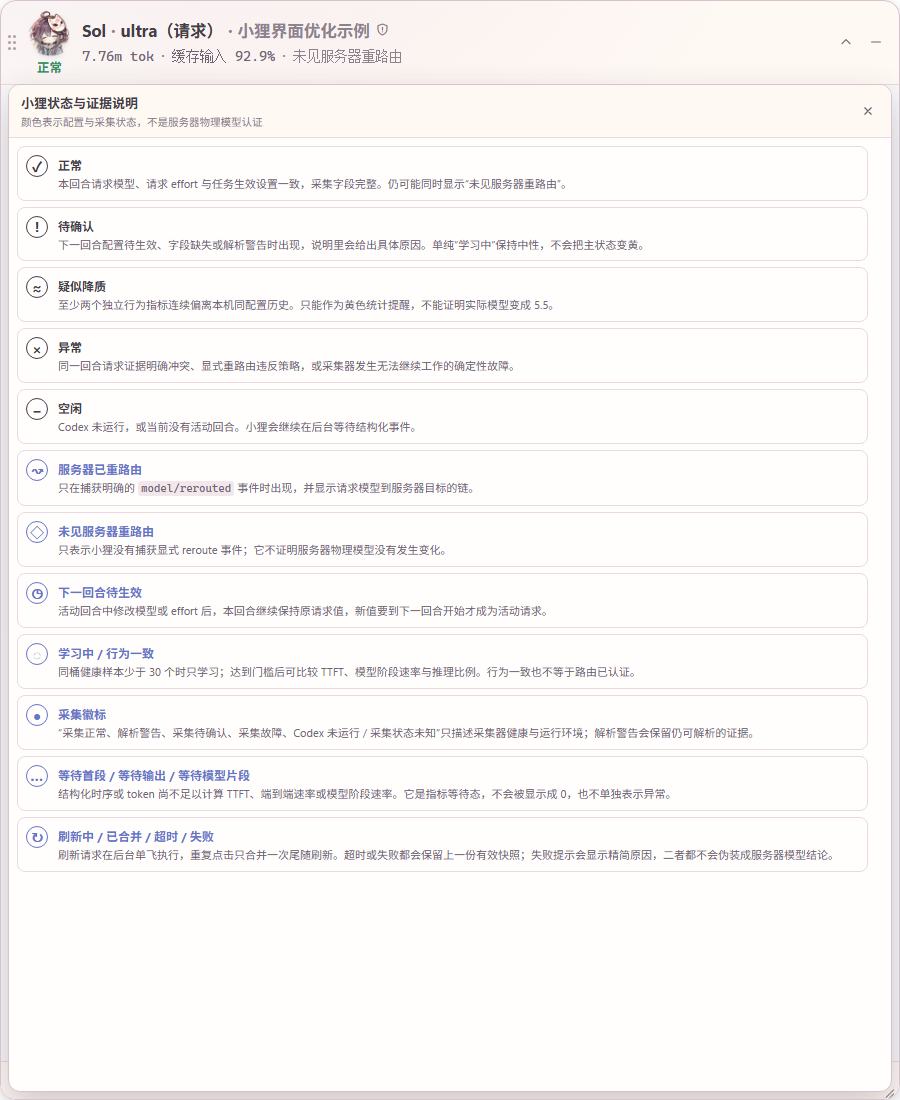
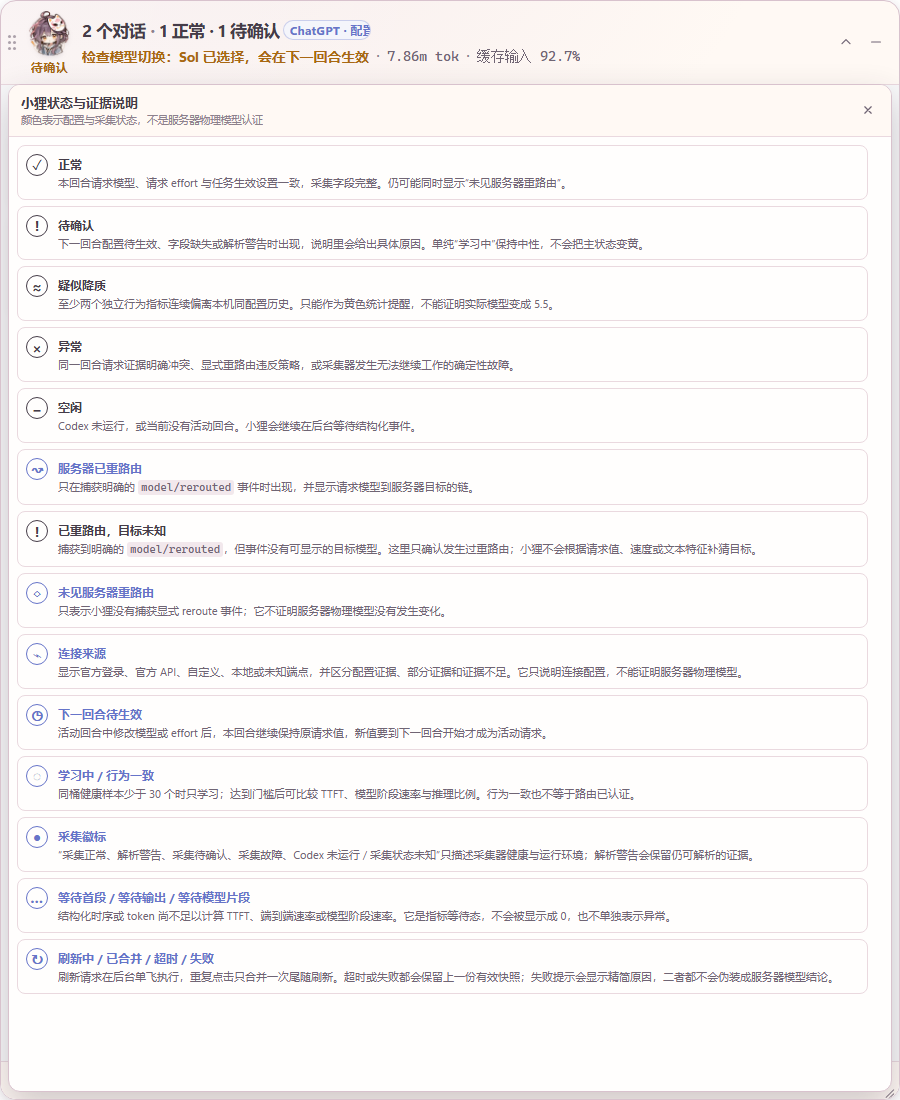
fix: repair portable release and complete status guide (#5)
Repair the macOS and Linux portable release gates, document every monitor and relay-audit state, and preserve strict model evidence boundaries.

diff --git a/src/workbench.ts b/src/workbench.ts
@@ -313,6 +313,20 @@ const BUDGETS: Record<AuditMode, BudgetPreset> = {
     detectors: ["protocol", "usage", "quality", "fingerprint", "mmd", "cacheEvasion", "stability", "paraphraseDrift"],
   },
 };
+const AUDIT_MODE_GUIDANCE: Record<AuditMode, { capability: string; limitation: string }> = {
+  quick: {
+    capability: "连接、协议、usage 算术、基础能力与少量单 token 指纹采样",
+    limitation: "每个质量域样本不足以形成一致或降质裁决；质量轴保持学习中，不运行 MMD 与抗规避统计",
+  },
+  standard: {
+    capability: "完整协议与计量、六个质量域、JSD/MMD 分布比较和两批抗规避检查",
+    limitation: "行为质量与中/高置信 JSD/MMD 比较需要实时官方配对；已验签静态参考只提供低置信 JSD 身份比较；通过仍不能证明物理模型",
+  },
+  deep: {
+    capability: "标准档全部能力，加大指纹与质量样本、稳定性矩阵和语义改写漂移检查",
+    limitation: "中/高置信比较仍需实时官方配对；费用、耗时和被端点识别审计流量的概率最高；仍无法排除选择性诚实",
+  },
+};
 const BUILT_IN_REQUESTS: Record<AuditMode, number> = { quick: 140, standard: 308, deep: 716 };
 const EMPTY_AXIS: AxisFinding = { level: "gray", state: "notRun", summary: "尚未运行主动检测", details: [] };
 
@@ -590,7 +604,9 @@ function relayPage(): string {
               <div class="budget-item"><span>最大请求</span><strong class="budget-requests">150</strong></div>
               <div class="budget-item"><span>输入 token 上限</span><strong class="budget-input">1.2m</strong></div>
               <div class="budget-item"><span>输出 token 上限</span><strong class="budget-output">120k</strong></div>
+              <div class="budget-item"><span>整次超时硬上限</span><strong class="budget-timeout">30 分钟</strong></div>
             </div>
+            <div class="audit-mode-guidance" aria-live="polite"><strong class="audit-mode-capability">快速：连接、协议、usage 算术、基础能力与少量单 token 指纹采样</strong><span class="audit-mode-limitation">局限：每个质量域样本不足以形成一致或降质裁决；质量轴保持学习中，不运行 MMD 与抗规避统计</span></div>
             <p class="audit-warning">检测会产生真实 API 费用。“通过”只表示本次范围内未见显著异常，无法密码学证明物理模型。</p>
             <div class="form-actions"><button class="primary-button" type="button" data-action="audit-start"><span class="button-icon">${icon("play")}</span><span class="button-label">开始审计</span></button></div>
             <div class="progress-shell" aria-live="polite" aria-atomic="false" hidden>
@@ -652,12 +668,39 @@ function principlesPage(): string {
         <div class="evidence-layer"><strong>4</strong><div><strong>行为证据</strong><span>token、时序、质量和分布差异</span></div></div>
       </div>
     </article>
-    <div class="status-guide-grid">
-      ${statusGuide("green", "绿色 · 该轴未见异常", "协议/usage 自洽可独立为绿；模型身份可显示与实时官方参考一致，或与已验签静态参考一致（低置信），两者都不是物理模型证明；静态一致不能单独令总裁决为正常。")}
-      ${statusGuide("yellow", "黄色 · 疑似异常", "可能是过量计数、实时配对下的行为降质、指纹偏离，或主动审计正常但同一中转的真实会话长期异常。这些都是保守警告，不是物理模型证明。")}
-      ${statusGuide("red", "红色 · 明确契约异常", "可复现的 usage 不可能算术、协议包络/SSE 或自报型号契约矛盾。")}
-      ${statusGuide("gray", "灰色 · 证据不足", "没有实时匹配参考或可用的可信签名静态参考、样本不足、参数不可控或当前协议无法检查；灰色不是通过。")}
-    </div>
+    <section class="status-guide-section" aria-labelledby="monitor-quality-title">
+      <div class="section-heading"><div><h2 id="monitor-quality-title">会话行为质量 · qualityAssessment</h2><p>这是 Codex 被动监视的本地统计状态，不是中转审计总裁决，也不会改写服务器路由。</p></div></div>
+      <div class="status-guide-grid status-guide-grid-three">
+        ${statusGuide("gray", "learning · 学习中", "同桶合格样本不足 30 个或字段不可比；不做异常结论，灰色不是通过。")}
+        ${statusGuide("green", "consistent · 与本机历史一致", "样本满足门槛，当前检查点未越过保守触发条件；只说明本地行为范围一致，不认证模型身份。")}
+        ${statusGuide("yellow", "suspectedDegradation · 疑似降质", "至少两个独立信号族连续命中本机历史 4×MAD 门槛；只发出黄色统计警告，不能声称已换模型或降低 effort。")}
+      </div>
+    </section>
+    <section class="status-guide-section" aria-labelledby="route-source-title">
+      <div class="section-heading"><div><h2 id="route-source-title">服务器路由与连接来源</h2><p>路由事件和连接配置是两条独立证据线；连接来源不会根据速度、文风或 token 特征猜测。</p></div></div>
+      <div class="status-guide-grid status-guide-grid-three">
+        ${statusGuide("gray", "未见服务器重路由", "没有捕获显式 model/rerouted；不证明物理路由没有变化。")}
+        ${statusGuide("route", "服务器已重路由", "捕获到显式 model/rerouted 且目标可显示；蓝紫色只标识路由证据，目标与策略冲突时才升级为红色。")}
+        ${statusGuide("yellow", "已重路由，目标未知", "明确事件确认发生过重路由，但目标字段缺失；小狸不会用请求模型或行为特征补猜目标。")}
+      </div>
+      <div class="origin-guide" aria-label="连接来源分类">
+        <strong>连接来源固定分类</strong>
+        <span>OpenAI 官方 ChatGPT 登录</span><span>OpenAI 官方 API</span><span>Anthropic 官方 API</span><span>托管模型提供方</span><span>自定义端点</span><span>本地端点</span><span>连接来源未知</span>
+      </div>
+    </section>
+    <section class="status-guide-section" aria-labelledby="audit-verdict-title">
+      <div class="section-heading"><div><h2 id="audit-verdict-title">中转审计总裁决 · overallVerdict</h2><p>八种枚举逐项展示；总裁决汇总四条证据轴与运行生命周期，不输出“真实模型概率”。</p></div></div>
+      <div class="status-guide-grid">
+        ${statusGuide("green", "consistent · 与本次参考一致", "本次参数和实时匹配参考的适用范围内未见显著异常；物理模型未获证明。模型身份轴可以显示与已验签静态参考一致（低置信），但静态一致不能单独令总裁决为正常；可用的可信签名静态参考必须验签、匹配参数且未过期。")}
+        ${statusGuide("gray", "insufficientEvidence · 证据不足", "样本、实时参考或受控参数不足；灰色不是通过。")}
+        ${statusGuide("yellow", "suspectedPadding · 疑似过量计数", "至少两个受控输入量级的计量偏差越过配对参考与容差；不证明服务商主观故意。")}
+        ${statusGuide("yellow", "suspectedDegradation · 疑似降质", "实时配对下至少两个已实现能力域持续低于参考；不等于已换成某个命名模型。")}
+        ${statusGuide("yellow", "significantlyDifferent · 与参考显著不同", "实时配对下 JSD 与 MMD 同时越过门槛，或适用的已验签静态参考下 JSD 越过其签名校准阈值（低置信）；不会填充虚假的 actualModel。")}
+        ${statusGuide("red", "confirmedContractMismatch · 明确契约异常", "协议或 usage 存在可复现的不可能矛盾；不自动推导后端实体。")}
+        ${statusGuide("red", "failed · 检测失败", "没有成功的可解析响应，或审计发生确定性失败；没有形成模型结论。")}
+        ${statusGuide("gray", "cancelled · 已取消", "用户取消后不再启动新请求；已完成的结构化证据可以保留，但整次运行不作通过结论。")}
+      </div>
+    </section>
     <div class="method-grid">
       <article class="card method-card"><h3>如何寻找 token 注水</h3><ul><li>先验证 usage 各项算术是否自洽。</li><li>对已知 OpenAI tokenizer 计算可见 token，未知别名不宣称绝对精确。</li><li>多个输入量级对比官方配对或可解释区间。</li></ul></article>
       <article class="card method-card"><h3>如何寻找降质</h3><ul><li>使用结构化 JSON、长上下文 nonce、算术/约束推理、多语言、工具选择与状态保持六个域。</li><li>工具域通过三种协议发送真实工具 schema，只在本地评分结构化工具名/参数，绝不执行调用。</li><li>状态保持只验证同一请求内的多消息历史，不代表跨网络会话或物理模型证明；实时官方配对下至少两个域持续偏离才发出黄色提示。</li></ul></article>
@@ -668,7 +711,7 @@ function principlesPage(): string {
   </section>`;
 }
 
-function statusGuide(level: StatusLevel, title: string, copy: string): string {
+function statusGuide(level: StatusLevel | "route", title: string, copy: string): string {
   return `<article class="status-guide-card status-${level}"><h3><span class="status-dot"></span>${title}</h3><p>${copy}</p></article>`;
 }
 
@@ -1396,6 +1439,11 @@ function formatDuration(value: number | undefined): string {
   return `${Math.floor(value / 60_000)}m ${Math.round((value % 60_000) / 1_000)}s`;
 }
 
+function formatAuditTimeout(value: number): string {
+  const minutes = Math.max(1, Math.round(value / 60_000));
+  return minutes % 60 === 0 ? `${minutes / 60} 小时` : `${minutes} 分钟`;
+}
+
 function relativeTime(value: string | undefined): string {
   if (!value) return "时间未知";
   const timestamp = Date.parse(value);
@@ -2017,11 +2065,15 @@ function isOfficialProfile(profile: RelayProfile): boolean {
 function renderBudget(): void {
   const mode = selectedAuditMode();
   const preset = BUDGETS[mode];
+  const guidance = AUDIT_MODE_GUIDANCE[mode];
   const paired = Boolean((mount.querySelector<HTMLSelectElement>("#audit-baseline")?.value));
   const multiplier = paired ? 2 : 1;
   setText(".budget-requests", paired ? `${preset.requestLimit} / 端点·${preset.requestLimit * multiplier} 总计` : String(preset.requestLimit));
   setText(".budget-input", `${formatTokens(preset.inputTokenLimit * multiplier)}${paired ? " 总计" : ""}`);
   setText(".budget-output", `${formatTokens(preset.outputTokenLimit * multiplier)}${paired ? " 总计" : ""}`);
+  setText(".budget-timeout", formatAuditTimeout(preset.timeoutMs));
+  setText(".audit-mode-capability", `${preset.label}：${guidance.capability}`);
+  setText(".audit-mode-limitation", `局限：${guidance.limitation}`);
 }
 
 function renderProgress(): void {
@@ -2715,7 +2767,10 @@ async function startAudit(): Promise<void> {
       `完整计划：${preview.plannedRequests} 次 / 端点（内置 ${preview.builtInRequests} + 私有 ${preview.privateProbeRequests}），${preview.plannedRequests * multiplier} 次总操作\n` +
       `硬上限：${budget.requestLimit} 次 / 端点，${budget.requestLimit * multiplier} 次总请求\n` +
       `输入 token 上限：${formatTokens(budget.inputTokenLimit * multiplier)} 总计\n` +
-      `输出 token 上限：${formatTokens(budget.outputTokenLimit * multiplier)} 总计\n\n` +
+      `输出 token 上限：${formatTokens(budget.outputTokenLimit * multiplier)} 总计\n` +
+      `整次超时硬上限：${formatAuditTimeout(budget.timeoutMs)}（不是单请求超时）\n` +
+      `本档能力：${AUDIT_MODE_GUIDANCE[mode].capability}\n` +
+      `本档局限：${AUDIT_MODE_GUIDANCE[mode].limitation}\n\n` +
       "网络重试也计入上限；结果不能密码学证明物理模型。",
     );
     if (!confirmed) {

diff --git a/tests/workbench.test.ts b/tests/workbench.test.ts
@@ -476,7 +476,48 @@ describe("XiaoLi workbench audit safeguards", () => {
       expect(copy).toContain("与已验签静态参考一致（低置信）");
       expect(copy).toContain("静态一致不能单独令总裁决为正常");
       expect(copy).toContain("可用的可信签名静态参考");
+      for (const state of ["learning", "consistent", "suspectedDegradation"]) {
+        expect(copy).toContain(state);
+      }
+      for (const verdict of ["consistent", "insufficientEvidence", "suspectedPadding", "suspectedDegradation", "significantlyDifferent", "confirmedContractMismatch", "failed", "cancelled"]) {
+        expect(copy).toContain(verdict);
+      }
+      expect(copy).toContain("已重路由，目标未知");
+      expect(copy).toContain("OpenAI 官方 ChatGPT 登录");
+      expect(copy).toContain("连接来源未知");
+      expect(copy).toContain("已验签静态参考下 JSD 越过其签名校准阈值（低置信）");
+      const rerouteCard = Array.from(document.querySelectorAll<HTMLElement>(".status-guide-card"))
+        .find((card) => card.querySelector("h3")?.textContent?.includes("服务器已重路由"));
+      expect(rerouteCard).toBeDefined();
+      expect(rerouteCard?.classList.contains("status-route")).toBe(true);
+      expect(rerouteCard?.classList.contains("status-green")).toBe(false);
     });
+  });
+
+  it("shows each audit mode capability, limitation, and audit-wide timeout hard cap", async () => {
+    await boot();
+    click('[data-page="relay"]');
+
+    expect(document.querySelector(".budget-timeout")?.textContent).toBe("30 分钟");
+    expect(document.querySelector(".audit-mode-capability")?.textContent).toContain("少量单 token 指纹采样");
+    expect(document.querySelector(".audit-mode-limitation")?.textContent).toContain("质量轴保持学习中");
+
+    const standard = document.querySelector<HTMLInputElement>('input[name="audit-mode"][value="standard"]')!;
+    document.querySelector<HTMLInputElement>('input[name="audit-mode"][value="quick"]')!.checked = false;
+    standard.checked = true;
+    standard.dispatchEvent(new Event("change", { bubbles: true }));
+    expect(document.querySelector(".budget-timeout")?.textContent).toBe("1 小时");
+    expect(document.querySelector(".audit-mode-capability")?.textContent).toContain("JSD/MMD");
+    expect(document.querySelector(".audit-mode-limitation")?.textContent).toContain("静态参考只提供低置信 JSD 身份比较");
+    expect(document.querySelector(".audit-mode-limitation")?.textContent).toContain("不能证明物理模型");
+
+    const deep = document.querySelector<HTMLInputElement>('input[name="audit-mode"][value="deep"]')!;
+    standard.checked = false;
+    deep.checked = true;
+    deep.dispatchEvent(new Event("change", { bubbles: true }));
+    expect(document.querySelector(".budget-timeout")?.textContent).toBe("2 小时");
+    expect(document.querySelector(".audit-mode-capability")?.textContent).toContain("语义改写漂移");
+    expect(document.querySelector(".audit-mode-limitation")?.textContent).toContain("选择性诚实");
   });
 
   it("keeps the paired-reference wording for a live official paired audit", async () => {
@@ -579,6 +620,9 @@ describe("XiaoLi workbench audit safeguards", () => {
 
     expect(confirm).toHaveBeenCalledTimes(1);
     expect(confirm.mock.calls[0]?.[0]).toContain("完整计划：140 次 / 端点");
+    expect(confirm.mock.calls[0]?.[0]).toContain("整次超时硬上限：30 分钟（不是单请求超时）");
+    expect(confirm.mock.calls[0]?.[0]).toContain("本档能力：连接、协议、usage 算术");
+    expect(confirm.mock.calls[0]?.[0]).toContain("本档局限：每个质量域样本不足以形成一致或降质裁决");
     expect(tauri.invoke).not.toHaveBeenCalledWith("start_relay_audit", expect.anything());
   });
 

diff --git a/src/main.ts b/src/main.ts
@@ -1721,6 +1721,7 @@ function mountShell(): void {
         <article class="status-guide-item status-red"><i aria-hidden="true">×</i><div><strong>异常</strong><p>同一回合请求证据明确冲突、显式重路由违反策略，或采集器发生无法继续工作的确定性故障。</p></div></article>
         <article class="status-guide-item status-gray"><i aria-hidden="true">–</i><div><strong>空闲</strong><p>Codex 未运行，或当前没有活动回合。小狸会继续在后台等待结构化事件。</p></div></article>
         <article class="status-guide-item route-guide"><i aria-hidden="true">↝</i><div><strong>服务器已重路由</strong><p>只在捕获明确的 <code>model/rerouted</code> 事件时出现，并显示请求模型到服务器目标的链。</p></div></article>
+        <article class="status-guide-item status-yellow"><i aria-hidden="true">!</i><div><strong>已重路由，目标未知</strong><p>捕获到明确的 <code>model/rerouted</code>，但事件没有可显示的目标模型。这里只确认发生过重路由；小狸不会根据请求值、速度或文本特征补猜目标。</p></div></article>
         <article class="status-guide-item route-guide"><i aria-hidden="true">◇</i><div><strong>未见服务器重路由</strong><p>只表示小狸没有捕获显式 reroute 事件；它不证明服务器物理模型没有发生变化。</p></div></article>
         <article class="status-guide-item route-guide"><i aria-hidden="true">⌁</i><div><strong>连接来源</strong><p>显示官方登录、官方 API、自定义、本地或未知端点，并区分配置证据、部分证据和证据不足。它只说明连接配置，不能证明服务器物理模型。</p></div></article>
         <article class="status-guide-item route-guide"><i aria-hidden="true">◷</i><div><strong>下一回合待生效</strong><p>活动回合中修改模型或 effort 后，本回合继续保持原请求值，新值要到下一回合开始才成为活动请求。</p></div></article>

diff --git a/src/workbench.css b/src/workbench.css
@@ -291,6 +291,7 @@ select {
 .status-yellow { color: var(--yellow) !important; }
 .status-red { color: var(--red) !important; }
 .status-gray { color: var(--gray) !important; }
+.status-route { color: var(--blue) !important; }
 
 .workspace {
   min-width: 0;
@@ -959,7 +960,7 @@ select {
 
 .budget-panel {
   display: grid;
-  grid-template-columns: repeat(3, minmax(0, 1fr));
+  grid-template-columns: repeat(4, minmax(0, 1fr));
   gap: 7px;
 }
 
@@ -972,6 +973,25 @@ select {
 .budget-item span,
 .budget-item strong {
   display: block;
+}
+
+.audit-mode-guidance {
+  display: grid;
+  gap: 4px;
+  padding: 10px 12px;
+  border: 1px solid var(--line);
+  border-radius: 10px;
+  background: color-mix(in srgb, var(--blue) 6%, var(--surface));
+  font-size: 12px;
+  line-height: 1.5;
+}
+
+.audit-mode-guidance strong {
+  color: var(--ink);
+}
+
+.audit-mode-guidance span {
+  color: var(--muted);
 }
 
 .budget-item span {
@@ -1202,6 +1222,44 @@ select {
   grid-template-columns: repeat(4, minmax(0, 1fr));
   margin-top: 14px;
   gap: 10px;
+}
+
+.status-guide-section {
+  margin-top: 18px;
+  padding: 16px;
+  border: 1px solid var(--line);
+  border-radius: 16px;
+  background: color-mix(in srgb, var(--surface) 88%, transparent);
+}
+
+.status-guide-section > .section-heading h2 {
+  font-size: 16px;
+}
+
+.status-guide-grid-three {
+  grid-template-columns: repeat(3, minmax(0, 1fr));
+}
+
+.origin-guide {
+  display: flex;
+  flex-wrap: wrap;
+  align-items: center;
+  margin-top: 10px;
+  gap: 7px;
+}
+
+.origin-guide strong {
+  margin-right: 2px;
+  font-size: 12px;
+}
+
+.origin-guide span {
+  padding: 5px 8px;
+  border: 1px solid var(--line);
+  border-radius: 999px;
+  background: var(--surface-soft);
+  color: var(--muted);
+  font-size: 11.5px;
 }
 
 .status-guide-card {
@@ -1447,6 +1505,7 @@ select {
   .summary-grid,
   .axis-grid,
   .status-guide-grid,
+  .status-guide-grid-three,
   .method-grid,
   .form-grid.two-columns,
   .detail-grid,

diff --git a/tests/status-guide.test.ts b/tests/status-guide.test.ts
@@ -1,0 +1,14 @@
+import { readFile } from "node:fs/promises";
+import { describe, expect, it } from "vitest";
+
+describe("XiaoLi in-app status guide contract", () => {
+  it("keeps the three route outcomes and connection-origin evidence in the monitor guide", async () => {
+    const source = await readFile("src/main.ts", "utf8");
+
+    expect(source).toContain("服务器已重路由");
+    expect(source).toContain("已重路由，目标未知");
+    expect(source).toContain("未见服务器重路由");
+    expect(source).toContain("显示官方登录、官方 API、自定义、本地或未知端点");
+    expect(source).toContain("不会根据请求值、速度或文本特征补猜目标");
+  });
+});

diff --git a/docs/STATUS_AND_EVIDENCE.md b/docs/STATUS_AND_EVIDENCE.md
@@ -28,9 +28,9 @@ token + item timing + 本地历史 ─────────> qualityAssessmen
 | 协议兼容 | 本次协议范围正常 | —（当前没有独立黄色协议状态） | 可复现契约矛盾 | 无法检查 |
 | 计量一致性 | usage 自洽；有实时官方配对时还可与参考一致 | 多量级疑似过量计数 | usage 算术不可能 | usage 缺失或对应比较无法执行 |
 | 行为质量 | 标准/深度实时官方配对下与参考一致 | 实时配对下至少两个已实现能力域持续降低 | —（行为统计不会产生红色身份结论） | 快速档/未配对时学习中，或任务不可比/参考不足 |
-| 模型身份 | 仅在同次实时官方配对下与参考行为一致 | 配对分布显著不同 | —（错误自报型号由协议轴判红） | 只有 API 自报型号，未获行为参考或物理身份证明 |
+| 模型身份 | 同次实时官方配对下与参考行为一致；或与已验签、参数匹配、未过期的静态参考一致（低置信） | 实时配对或适用静态参考下分布显著不同 | —（错误自报型号由协议轴判红） | 只有 API 自报型号，或没有可用行为参考；未获物理身份证明 |
 
-每个证据轴独立着色：未启用实时官方配对时，协议与 usage 算术自洽仍可为绿色；目标端确定性探针虽会采集，但相对行为质量保持灰色学习中/证据不足。若用户没有明确选择适用的已验证签名静态包，模型身份轴也必须是灰色 `insufficientEvidence`；选择了已验证、参数匹配且未过期的包后，身份轴可显示低置信“与静态参考一致/显著不同”，但一致结果不能单独把总裁决设为 `consistent`。快速档即使启用官方配对，质量样本仍低于裁决门槛，因此质量轴保持学习中；标准/深度档才执行当前质量比较。Release 内置社区参考只能附加低置信、跨协议的实验性相对排名，不会把任何证据轴变绿/变红，也不改变总裁决。任何绿色都只说明该轴在本次范围内未见异常，不能把协议成功、包签名或社区排名伪装成身份验证。方法详见 [中转审计](RELAY_AUDIT.md)。
+每个证据轴独立着色：未启用实时官方配对时，协议与 usage 算术自洽仍可为绿色；目标端确定性探针虽会采集，但相对行为质量保持灰色学习中/证据不足。若用户没有明确选择适用的已验证签名静态包，模型身份轴也必须是灰色 `insufficientEvidence`；选择了已验证、参数匹配且未过期的包后，身份轴可以独立显示绿色、低置信“与静态参考一致”或黄色“与静态参考显著不同”。这里的身份轴绿色只表示与该静态参考一致，**不能单独把 `overallVerdict` 设为 `consistent`**；绿色总裁决仍要求本次实时匹配参考及其他轴满足对应前置条件。快速档即使启用官方配对，质量样本仍低于裁决门槛，因此质量轴保持学习中；标准/深度档才执行当前质量比较。Release 内置社区参考只能附加低置信、跨协议的实验性相对排名，不会把任何证据轴变绿/变红，也不改变总裁决。任何绿色都只说明该轴在本次范围内未见异常，不能把协议成功、包签名或社区排名伪装成物理身份验证。方法详见 [中转审计](RELAY_AUDIT.md)。
 
 `v0.2.0-beta.1` 的中转质量探针覆盖结构化 JSON、长上下文随机 nonce 检索、算术/约束推理、多语言、工具选择和状态保持六个域。工具域向三种协议发送真实工具 schema，但只在本地解析并评分受限的结构化函数名/字符串参数，绝不执行调用、URL 或代码，也不持久化原始响应正文。状态保持只验证同一请求所携带的 `system / user / assistant / user` 消息历史，不是跨网络会话或物理模型证明。普通或未验证 `RelayBaselineSummary` 只作元数据显示；显式信任并验签通过的适用静态包只参与低置信身份比较；Release 内置社区分布只作低置信实验排名；只有本次审计实时调用的、同协议同精确模型官方 profile 会参与中/高置信度配对统计。
 
@@ -185,7 +185,7 @@ Sol（请求） → 5.5（服务器已重路由）
 | `consistent` | 绿 | 本次参数、样本和实时匹配参考的适用范围内未见显著异常；物理模型未获证明 |
 | `suspectedPadding` | 黄 | 至少两个受控输入量级的计量偏差越过配对参考与容差；不是服务商主观故意的证明 |
 | `suspectedDegradation` | 黄 | 实时配对下至少两个已实现能力域持续低于参考；不是已换成某命名模型的证明 |
-| `significantlyDifferent` | 黄 | 配对行为分布越过当前 JSD/MMD 门槛；不填充 `actualModel` |
+| `significantlyDifferent` | 黄 | 实时配对下 JSD 与 MMD 同时越过门槛，或适用的已验签静态参考下 JSD 越过其签名校准阈值（低置信）；不填充 `actualModel` |
 | `confirmedContractMismatch` | 红 | 协议或 usage 存在可复现的明确契约矛盾；不自动推导后端实体 |
 | `insufficientEvidence` | 灰 | 样本、实时参考或可控参数不足；灰色不是通过 |
 | `failed` | 红 | 没有成功的可解析响应，或审计发生确定性失败；没有形成模型结论 |
